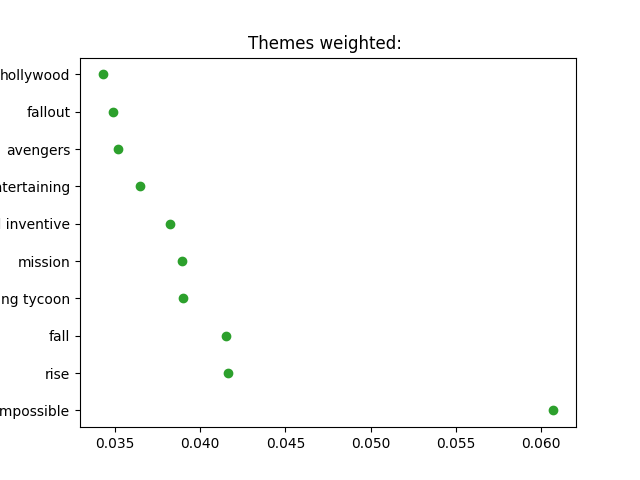
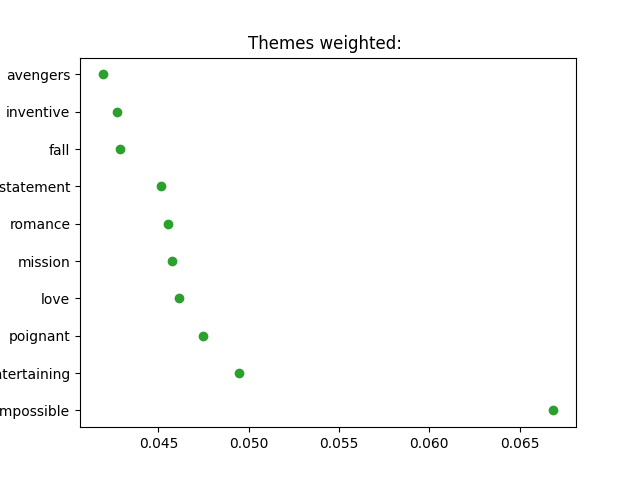
#37 scraper 100 reviews.

diff --git a/final_project/text_scraping_list_version.py b/final_project/text_scraping_list_version.py
@@ -11,6 +11,10 @@ import json
 import re
 import time
 
+headers = {
+        'USER-AGENT': 'Mozilla/5.0 (X11; Ubuntu; Linux x86_64; rv:85.0) Gecko/20100101 Firefox/85.0 ACCEPT text/html,application/xhtml+xml,application/xml;q=0.9,image/webp,*/*;q=0.8 ACCEPT-LANGUAGE en-US,en;q=0.5 ACCEPT-ENCODING gzip, deflate, br'
+}
+
 """Defining functions"""
 
 def main():
@@ -19,13 +23,12 @@ def main():
         titles = []
         url = "https://www.rottentomatoes.com/top/bestofrt/" #best 100 films url
         parser = "html.parser"
-        html = requests.get(url)
+        html = requests.get(url, headers)
         soup = BeautifulSoup(html.text, parser) #parses the 100 best films page
         f = open("text_data_list.txt", "w")
         json_content = json.loads("".join(soup.find("script", {"type":"application/ld+json"}).contents)) #loads the json script from parsed html page into a python dictionary
         for i in json_content['itemListElement']: #iterates through dictionary
-            if len(review_links) < 10: #caps list at 10 url's
-                review_links.append(i['url']) #extracts the url from the dictionary
+            review_links.append(i['url']) #extracts the url from the dictionary
                 
 
         
